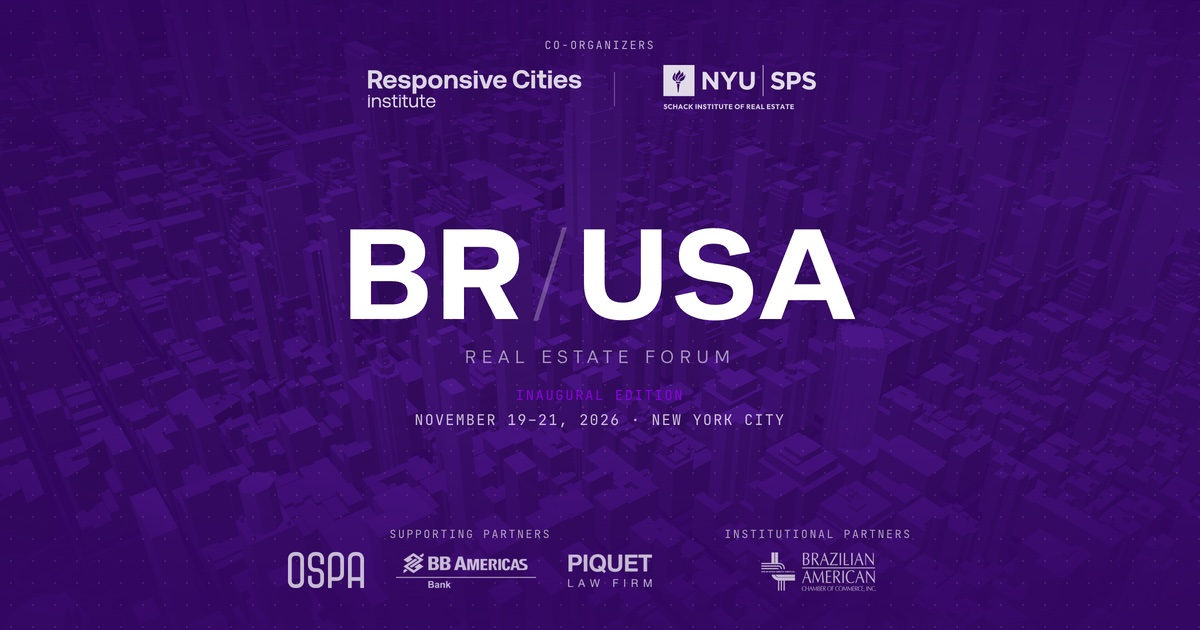
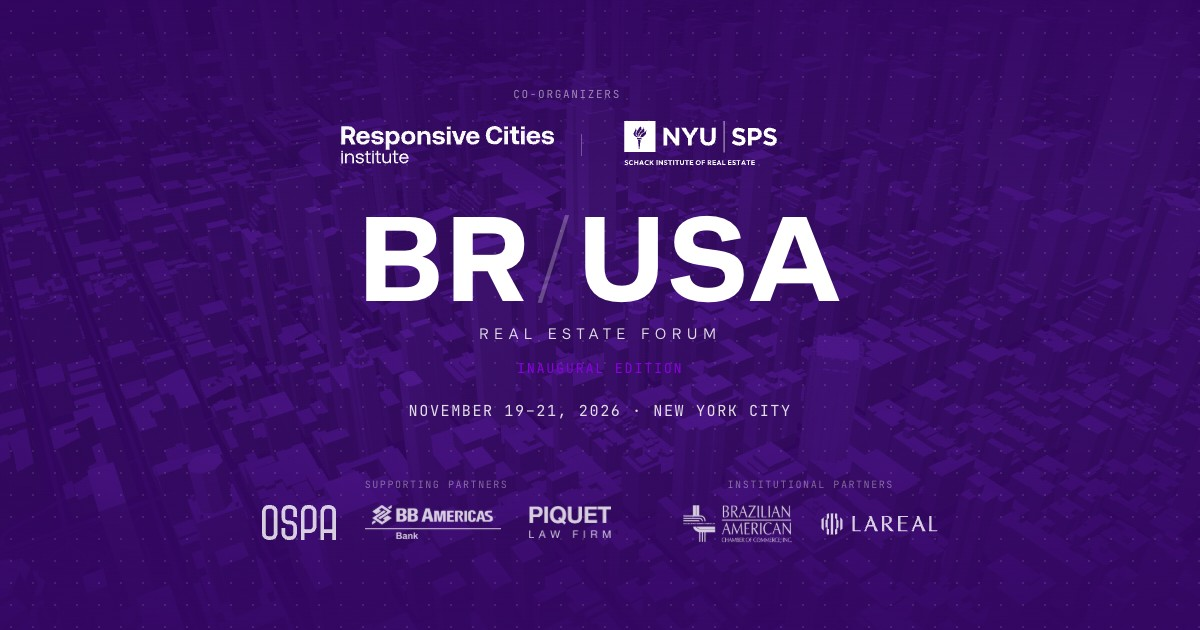
feat(share): prévia do link com a LAREAL
Nova img/og-share-1200x630.jpg (JPEG 1200x630, 118 KB) gerada a partir
da capa, já com a LAREAL entre os Institutional Partners. As tags og e
twitter ganham ?v=2 para o WhatsApp não reaproveitar a prévia em cache;
o README explica o passo.

diff --git a/README.md b/README.md
@@ -53,3 +53,5 @@ esconde o outro. Texto novo sem o par fica visível nos dois idiomas.
 mantendo JPEG abaixo de 300 KB, senão o WhatsApp não mostra. Se mudar as
 dimensões, atualize `og:image:width` e `og:image:height`. O WhatsApp guarda a
 prévia em cache, então um link já enviado pode continuar mostrando a versão antiga.
+Ao trocar a imagem, suba o `?v=` no fim da URL nas três tags para forçar os
+apps a buscar a versão nova.
